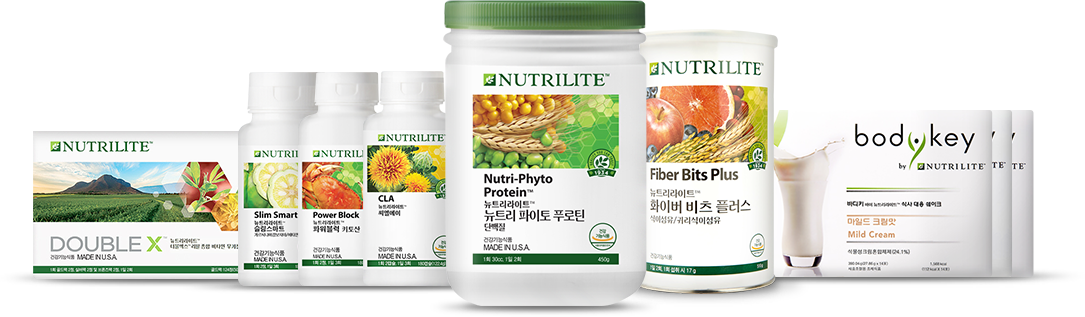
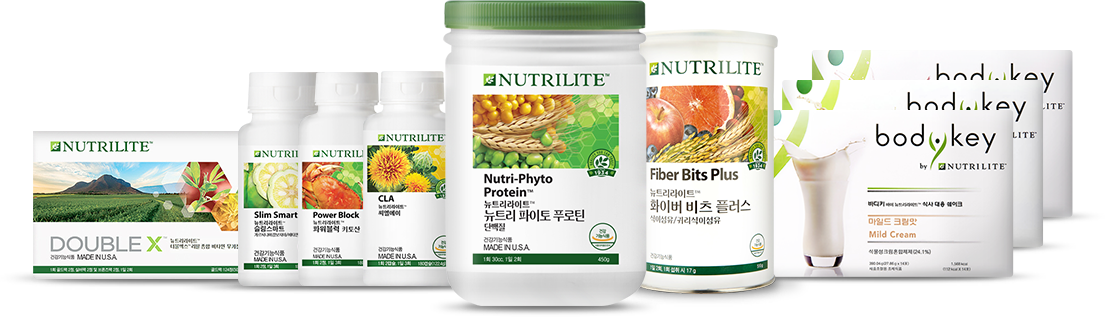
제품상세

diff --git a/_ui/responsive/html/product/nutrition-health/functional-nutrition/NU_2093_10_Omega_3_Balance.html b/_ui/responsive/html/product/nutrition-health/functional-nutrition/NU_2093_10_Omega_3_Balance.html
@@ -66,7 +66,7 @@
 												<div class="v-logo-txt">온 가족 평생 건강을 위한 영양습관</div>
 												<div class="v-tit">오메가-3 밸런스</div>
 												<p class="v-txt">
-													오메가-3 지방산은 남녀노소 모두의 균형 잡힌 건강 유지를 위한 필수성분으로 일상생활에서의 부족한 섭취량 때문에 외부 보충이 꼭 필요합니다. <br>
+													EPA 및 DHA 함유유지는 남녀노소 모두의 균형 잡힌 건강 유지를 위한 필수성분으로 일상생활에서의 부족한 섭취량 때문에 외부 보충이 꼭 필요합니다. <br>
 													뉴트리라이트 오메가-3 밸런스는 EPA 및 DHA를 균형있게 함유한 오메가-3 지방산을 온 가족이 안심하고 편리하게 섭취할 수 있도록 제공해줍니다.
 												</p>
 											</div>
@@ -87,7 +87,7 @@
 													<ul class="spc-list">
 														<li>
 															<div class="feat-txt">
-																<p>건강에 필수적인 오메가-3 하루 680mg 제공	</p>
+																<p>건강에 필수적인 EPA  및 DHA 함유유지 하루 680mg 제공</p>
 															</div>
 															<div class="feat-img">
 																<span><img src="/_ui/responsive/theme-blue/images/akl_product/nutrition-health/icon_2093_01.png" alt=""></span>
@@ -111,7 +111,7 @@
 														</li>
 														<li>
 															<div class="feat-txt">
-																<p>남녀노소 삼키기 쉬운작은 캡슐 사이즈</p>
+																<p>남녀노소 삼키기 쉬운 작은 캡슐 사이즈</p>
 															</div>
 															<div class="feat-img">
 																<span><img src="/_ui/responsive/theme-blue/images/akl_product/nutrition-health/icon_2093_04.png" alt=""></span>
@@ -119,7 +119,7 @@
 														</li>
 														<li>
 															<div class="feat-txt">
-																<p>오메가-3 지방산을 유해산소로부터 보호하는 비타민 E 함유</p>
+																<p>EPA  및 DHA 함유유지를 유해산소로부터 보호하는 비타민 E 함유</p>
 															</div>
 															<div class="feat-img">
 																<span><img src="/_ui/responsive/theme-blue/images/akl_product/nutrition-health/icon_2093_05.png" alt=""></span>
@@ -147,7 +147,7 @@
 															<li>1) 균형 잡힌 영양 섭취가 필요한성장기 어린이 및 청소년</li>
 															<li>2) 혈행 개선이 필요한 젊은 여성 및 중년 여성</li>
 															<li>3) 육류 섭취가 많은 직장인 및 중년 남성</li>
-															<li>4) 노화에 따라 혈관 건강관리가 필요한 중·장년 및 노년층</li>
+															<li>4) 노화에 따라 혈관 건강관리가 필요한 중&middot;장년 및 노년층</li>
 														</ol>
 													</dd>
 												</dl>
@@ -183,10 +183,10 @@
 														<div class="siehe-box">
 															<div class="com-tit2"><span class="green">OMEGA-3</span>는 무엇인가요?</div>
 															<p class="com-txt">
-																고도불포화지방산에 속하는 오메가-3 지방산(ω-3 지방산)은 우리 몸의 모든 조직을 구성하는 세포막의 주요 구성 성분으로 세포의 보호 및 세포의 구조 유지, 신체의 성장, 발달, 원활한 신진대사 및 기능 유지에 반드시 필요하지만 체내에서 충분히 합성되지 않아 반드시 외부로부터 섭취해야 합니다. 오메가-3지방산의 대표적인 기능성분인 EPA와 DHA는일반적으로 연어, 멸치, 정어리, 고등어 등의 등푸른 생선에 많이 함유되어있습니다.
+																고도불포화지방산에 속하는 오메가-3 지방산(ω-3 지방산)은 우리 몸의 모든 조직을 구성하는 세포막의 주요 구성 성분으로 세포의 보호 및 세포의 구조 유지, 신체의 성장, 발달, 원활한 신진대사 및 기능 유지에 반드시 필요하지만 체내에서 충분히 합성되지 않아 반드시 외부로부터 섭취해야 합니다. 오메가-3 지방산의 대표적인 기능성분인 EPA와 DHA는 일반적으로 연어, 멸치, 정어리, 고등어 등의 등푸른 생선에 많이 함유되어 있습니다.
 															</p>
 															<ul class="inge-lst03">
-																<li><strong>식약처에서 제안하는 오메가-3 건강기능식품의 하루 섭취량 기준은 식품으로 부터의 섭취를 고려하여 0.5g~2g입니다.</strong></li>
+																<li><strong>식약처에서 제안하는 오메가-3 건강기능식품의 하루 섭취량 기준은 식품으로 부터의 섭취를 고려하여 0.5g~2g입니다. </strong></li>
 															</ul>
 														</div>
 													</div>
@@ -202,7 +202,7 @@
 														<div class="siehe-box">
 															<div class="com-tit2"><span class="green">EPA와 DHA</span>는 무엇일까요?</div>
 															<p class="com-txt">
-																EPA는 일부는 DHA로 전환되기도 하지만 대부분 츨스타글라딘-3, 트롬복산-3 등으로 전환되어 혈중 중성지질을 감소 및 혈행을 원활히 하는데 도움을 줍니다. DHA는 신체에서 가장 부지런히 일하는조직인 뇌와 신경조직 및 눈의 망막조직을 구성하는 주요 성분입니다.
+																EPA는 일부는 DHA로 전환되기도 하지만 대부분 프로스타글라딘-3, 트롬복산-3 등으로 전환되어 혈중 중성지질을 감소 및 혈행을 원활히 하는데 도움을 줍니다. DHA는 신체에서 가장 부지런히 일하는 조직인 뇌와 신경조직 및 눈의 망막 조직을 구성하는 주요 성분입니다.
 															</p>
 														</div>
 													</div>
@@ -225,7 +225,7 @@
 																	<li>성인 여성 및 온 가족 대상</li>
 																	<li>목 넘김이 쉬운 작은 캡슐 사이즈</li>
 																	<li>건강 균형을 위한 오메가-3 제공</li>
-																	<li>균형 잡힌 포물러 EPA : DHA = 1 : 1</li>
+																	<li>균형 잡힌 포물러 EPA : DHA = 1:1</li>
 																</ul>
 															</div>
 														</div><div class="col-sm-12 col-md-6 effect-difference">
@@ -234,10 +234,10 @@
 																<div class="difference-tit">새몬 오메가-3</div>
 																<p class="difference-txt">성인 남성 및 중 &middot; 장년층 혈관 건강 관리</p>
 																<ul class="inge-lst06">
-																	<li>성인 남성 및 중 · 장년층 대상</li>
+																	<li>성인 남성 및 중 &middot; 장년층 대상</li>
 																	<li>넉넉한 캡슐사이즈로 풍부한 오메가-3 제공</li>
 																	<li>혈관 건강을 위한 오메가-3 제공</li>
-																	<li>혈관 건강 포뮬러 EPA : DHA = 3 : 2</li>
+																	<li>혈관 건강 포뮬러 EPA :DHA = 3 :2</li>
 																</ul>
 															</div>
 														</div>

diff --git a/_ui/responsive/html/product/nutrition-health/functional-nutrition/NU_2133_10_Golden_Pack_Gift_Set.html b/_ui/responsive/html/product/nutrition-health/functional-nutrition/NU_2133_10_Golden_Pack_Gift_Set.html
@@ -66,8 +66,8 @@
 												<div class="v-logo-txt">자신을 가꾸고 활기찬 생활을 즐기고 싶은 중장년을 위한</div>
 												<div class="v-tit">골든 팩 <span class="green">선물세트</span></div>
 												<p class="v-txt">
-													나이가 들면서 소화, 흡수, 운동기능성 등 신체 기능이 저하되면서 신체활동의 제한이 많아지고 다양한 건강 위험에 노출되는 중 · 장년층의 건강! <br>
-													오래 사는 것을 넘어 건강하게 사는 것이 중요하기에 다양한 건강 위협을 이겨낼 수 있는 방어 체력 구축 및 자유롭고 활기찬 노후 생활을 위한 영양관리가 필요합니다.
+													EPA 및 DHA 함유유지는 남녀노소 모두의 균형 잡힌 건강 유지를 위한 필수성분으로 일상생활에서의 부족한 섭취량 때문에 외부 보충이 꼭 필요합니다. <br>
+													뉴트리라이트 오메가-3 밸런스는 EPA 및 DHA를 균형있게 함유한 오메가-3 지방산을 온 가족이 안심하고 편리하게 섭취할 수 있도록 제공해줍니다.
 												</p>
 											</div>
 											
@@ -87,26 +87,42 @@
 													<ul class="spc-list">
 														<li>
 															<div class="feat-txt">
-																<p>14가지 비타민과 9가지 무기질, 풍부한 식물영양소로 신체기능 저하 및 정서 변화에 따라 소홀해지기 쉬운 중·장년층의 건강 유지를 위한 균형잡힌 영양을 공급</p>
+																<p>건강에 필수적인 EPA  및 DHA 함유유지 하루 680mg 제공</p>
 															</div>
 															<div class="feat-img">
-																<span><img src="/_ui/responsive/theme-blue/images/akl_product/nutrition-health/icon_2133_01.png" alt=""></span>
+																<span><img src="/_ui/responsive/theme-blue/images/akl_product/nutrition-health/icon_2093_01.png" alt=""></span>
 															</div>
 														</li>
 														<li>
 															<div class="feat-txt">
-																<p>신체기능 저하 에 따라 약해 지기 쉬운 중·장년층의 혈관을 건강하게 지켜주는 오메가-3 지방산 함유유지의 공급으로 혈중 중성 지질 및 혈행 개선에 도움을 줄 수 있음</p>
+																<p>온 가족을 위한 대용량 360캡슐</p>
 															</div>
 															<div class="feat-img">
-																<span><img src="/_ui/responsive/theme-blue/images/akl_product/nutrition-health/icon_2133_02.png" alt=""></span>
+																<span><img src="/_ui/responsive/theme-blue/images/akl_product/nutrition-health/icon_2093_02.png" alt=""></span>
 															</div>
 														</li>
 														<li>
 															<div class="feat-txt">
-																<p>글루코사민 황산염과 엠에스엠 함유로 관절 건강에 도움을 줄 수 있어, 활기찬 생활을 위해 필수적인 관절 건강을 유지</p>
+																<p>EPA : DHA = 1 : 1 균형 잡힌 포뮬러</p>
 															</div>
 															<div class="feat-img">
-																<span><img src="/_ui/responsive/theme-blue/images/akl_product/nutrition-health/icon_2133_03.png" alt=""></span>
+																<span><img src="/_ui/responsive/theme-blue/images/akl_product/nutrition-health/icon_2093_03.png" alt=""></span>
+															</div>
+														</li>
+														<li>
+															<div class="feat-txt">
+																<p>남녀노소 삼키기 쉬운 작은 캡슐 사이즈</p>
+															</div>
+															<div class="feat-img">
+																<span><img src="/_ui/responsive/theme-blue/images/akl_product/nutrition-health/icon_2093_04.png" alt=""></span>
+															</div>
+														</li>
+														<li>
+															<div class="feat-txt">
+																<p>EPA  및 DHA 함유유지를 유해산소로부터 보호하는 비타민 E 함유</p>
+															</div>
+															<div class="feat-img">
+																<span><img src="/_ui/responsive/theme-blue/images/akl_product/nutrition-health/icon_2093_05.png" alt=""></span>
 															</div>
 														</li>
 													</ul>

diff --git a/_ui/responsive/html/product/nutrition-health/bodykey/NU_2712_10_Bodykey_Basic_Set.html b/_ui/responsive/html/product/nutrition-health/bodykey/NU_2712_10_Bodykey_Basic_Set.html
@@ -79,16 +79,50 @@
 												<div class="com-tit">제품<span class="green">구성</span></div>
 
 												<div class="pcomp-area">
-													<div class="pcomp-list deaf01">
+													<div class="pcomp-list deaf03">
 														<div class="comp-info">
 															<div class="comp-box">
 																<div class="code-im">
-																	<span><img src="/_ui/responsive/theme-blue/images/akl_product/nutrition-health/product_bottom_2712_Bodykey_Basic_Set.png" alt="바디키 바이 뉴트리라이트 식사대용 쉐이크 3종 상품 이미지"></span>
+																	<span><img src="/_ui/responsive/theme-blue/images/akl_product/nutrition-health/product_bottom_2952_bodykeyshake_mixed_berry.png" alt="바디키 식사대용 쉐이크(믹스베리맛) 상품 이미지"></span>
 																</div>
 																<dl>
 																	<dt>
 																		<span class="po-txt blue">체중조절용 조제식품</span>
-																		<p class="po-tit">바디키 바이 뉴트리라이트 식사대용 쉐이크 3종</p>
+																		<p class="po-tit">바디키 식사대용 쉐이크(믹스베리맛)</p>
+																	</dt>
+																	<dd>
+																		<p>건강한 체중 조절 및 활기찬 생활에 도움을 주는 체중 조절용 제품</p>
+																		<span class="cc-btn"><a href="#" class="bt-akl-blue">제품 자세히 보기</a></span>
+																	</dd>
+																</dl>
+															</div>
+														</div>
+														<div class="comp-info">
+															<div class="comp-box">
+																<div class="code-im">
+																	<span><img src="/_ui/responsive/theme-blue/images/akl_product/nutrition-health/product_bottom_2951_bodykeyshake_mild_cream.png" alt="바디키 식사대용 쉐이크(마일드 크림맛) 상품 이미지"></span>
+																</div>
+																<dl>
+																	<dt>
+																		<span class="po-txt blue">체중조절용 조제식품</span>
+																		<p class="po-tit">바디키 식사대용 쉐이크(마일드 크림맛)</p>
+																	</dt>
+																	<dd>
+																		<p>건강한 체중 조절 및 활기찬 생활에 도움을 주는 체중 조절용 제품</p>
+																		<span class="cc-btn"><a href="#" class="bt-akl-blue">제품 자세히 보기</a></span>
+																	</dd>
+																</dl>
+															</div>
+														</div>
+														<div class="comp-info">
+															<div class="comp-box">
+																<div class="code-im">
+																	<span><img src="/_ui/responsive/theme-blue/images/akl_product/nutrition-health/product_bottom_2953_bodykeyshake_cafe_au_iait.png" alt="바디키 식사대용 쉐이크(카페오레맛) 상품 이미지"></span>
+																</div>
+																<dl>
+																	<dt>
+																		<span class="po-txt blue">체중조절용 조제식품</span>
+																		<p class="po-tit">바디키 식사대용 쉐이크(카페오레맛)</p>
 																	</dt>
 																	<dd>
 																		<p>건강한 체중 조절 및 활기찬 생활에 도움을 주는 체중 조절용 제품</p>

diff --git a/_ui/responsive/html/product/nutrition-health/functional-nutrition/NU_2003_10_Salmon_Omega3.html b/_ui/responsive/html/product/nutrition-health/functional-nutrition/NU_2003_10_Salmon_Omega3.html
@@ -66,9 +66,9 @@
 												<div class="v-logo-txt">현대인의 혈행 건강 지킴이 오메가-3</div>
 												<div class="v-tit">새몬 오메가-3</div>
 												<p class="v-txt">
-													뉴트리라이트 새몬 오메가-3는 일상생활에서 부족하기 쉬운 오메가-3 지방산을 보충해 주는 제품입니다. <br>
-													차가운 심해에서 잡은 연어를 주원료로 추출한 오메가-3 지방산과 함께 유통기간 중에 자칫 산화될 수 있는 오메가-3 지방산을 더 철저하게 보호하기 위해 비타민 E가 함유되어 있습니다. <br>
-													오메가-3 지방산은 혈중 중성지질 개선 · 혈행 개선에 도움을 줄 수 있습니다.
+													뉴트리라이트 새몬 오메가-3는 일상생활에서 부족하기 쉬운 EPA 및 DHA 함유유지를 보충해 주는 제품입니다. <br>
+													차가운 심해에서 잡은 연어를 주원료로 추출한 EPA 및 DHA 함유유지와 함께 유통기간 중에 자칫 산화될 수 있는 EPA 및 DHA 함유유지를 더 철저하게 보호하기 위해 비타민 E가 함유되어 있습니다. <br>
+													EPA 및 DHA 함유유지는 혈중 중성지질 개선 혈행 개선에 도움을 줄 수 있습니다.
 												</p>
 											</div>
 											
@@ -88,7 +88,7 @@
 													<ul class="spc-list">
 														<li>
 															<div class="feat-txt">
-																<p>건강한 혈관을 위한 필수 영양소인 오메가-3 하루 1,244mg 제공</p>
+																<p>건강한 혈관을 위한 필수 영양소인 EPA 및 DHA 함유유지 하루 1,244mg 제공</p>
 															</div>
 															<div class="feat-img">
 																<span><img src="/_ui/responsive/theme-blue/images/akl_product/nutrition-health/icon_2003_01.png" alt=""></span>
@@ -96,7 +96,7 @@
 														</li>
 														<li>
 															<div class="feat-txt">
-																<p>오메가-3 지방산을 유해산소로부터 보호하는 비타민 E 함유</p>
+																<p>EPA 및 DHA 함유유지를 유해산소로부터 보호하는 비타민 E 함유</p>
 															</div>
 															<div class="feat-img">
 																<span><img src="/_ui/responsive/theme-blue/images/akl_product/nutrition-health/icon_2003_02.png" alt=""></span>
@@ -104,7 +104,7 @@
 														</li>
 														<li>
 															<div class="feat-txt">
-																<p>혈중 중성지질 개선&middot;혈행 개선에 도움을 줄 수 있음</p>
+																<p>혈중 중성지질 개선&middot;혈행 개선에 도움을 줄 수 있음 </p>
 															</div>
 															<div class="feat-img">
 																<span><img src="/_ui/responsive/theme-blue/images/akl_product/nutrition-health/icon_2003_03.png" alt=""></span>

diff --git a/_ui/responsive/html/product/nutrition-health/functional-nutrition/NU_2070_10_Milk_Thistle_EX.html b/_ui/responsive/html/product/nutrition-health/functional-nutrition/NU_2070_10_Milk_Thistle_EX.html
@@ -103,7 +103,7 @@
 														</li>
 														<li>
 															<div class="feat-txt">
-																<p>민들레 뿌리 추출물, 시트러스 추출물, 아세로라 분말 등 다양한 식물농축물 함유(부원료)	</p>
+																<p>민들레 뿌리 추출물, 과일건조혼합물, 아세로라 분말 등 다양한 식물농축물 함유(부원료)</p>
 															</div>
 															<div class="feat-img">
 																<span><img src="/_ui/responsive/theme-blue/images/akl_product/nutrition-health/icon_2070_03.png" alt=""></span>
@@ -140,6 +140,7 @@
 													<dd>
 														<ol class="inge-numlst01">
 															<li>1) 임신&middot;수유부나 질병 치료 중인 분은 이 제품을 드시기 전에 의사와 상담하십시오.</li>
+															<li>1) 임신·수유부나 질병 치료 중인 분은 이 제품을 드시기 전에 의사와 상담하십시오.</li>
 															<li>2) 개인의 체질이나 상태에 따라 과민 반응이 생길 수도 있습니다. 이 경우, 섭취를 중단하고 의사와 상담하십시오.</li>
 															<li>3) 어린이의 손이 닿지 않는 곳에 보관하십시오.</li>
 															<li>4) 어린이에게는 권장되지 않습니다.</li>
